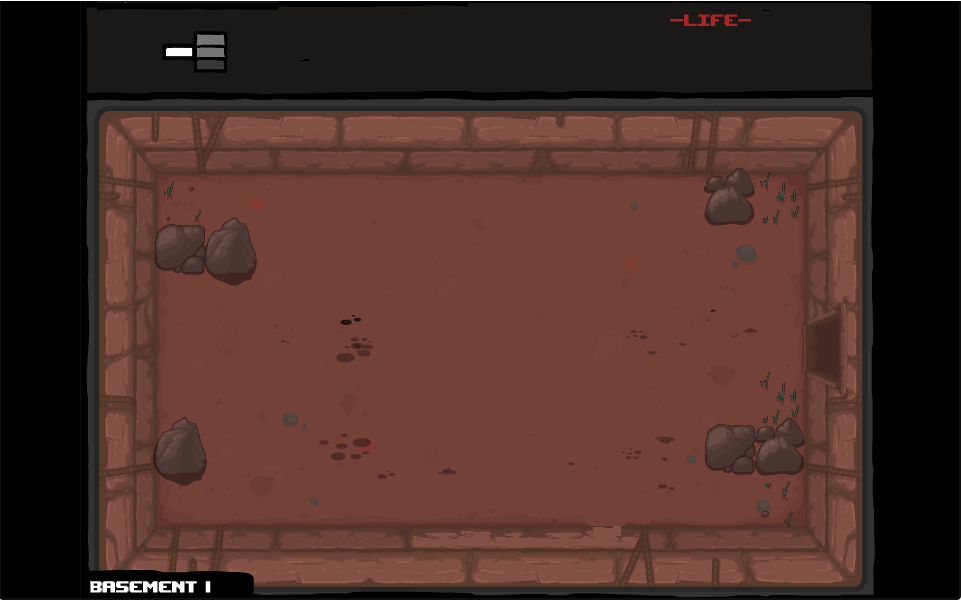
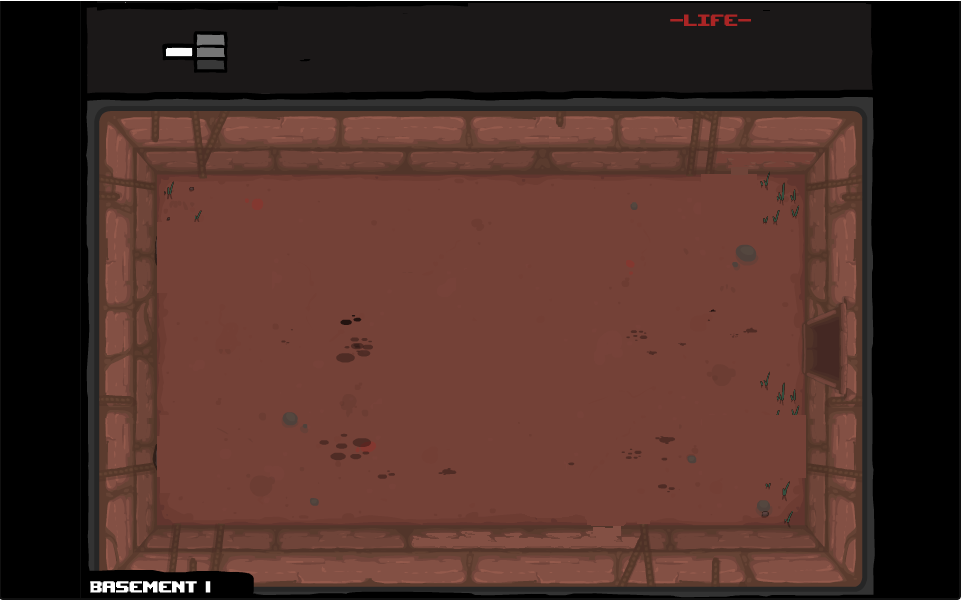
장애물과 충돌체크중

diff --git a/Isaac/isaac.py b/Isaac/isaac.py
@@ -7,6 +7,7 @@ import gameover
 import server
 from red_tear import RedTear
 from life import Life
+from block1 import Block
 
 NULL, RD, LD, RU, LU, WD, SD, WU, SU, SPACE = range(10)
 event_name = ['Null', 'RD', 'LD', 'RU', 'LU', 'SPACE', 'WD', 'SD', 'WU', 'SU']
@@ -187,13 +188,13 @@ class Isaac:
     def attack(self):
         if self.change == 1:
             if self.dir_x == 0 and self.dir_y == 0:
-                tear = Tear(self.x, self.y, self.face_dirx*0.8, self.face_diry*0.8)
+                tear = Tear(self.x, self.y, self.face_dirx, self.face_diry)
             elif self.dir_y == 0:
-                tear = Tear(self.x, self.y, self.dir_x*0.8, 0)
+                tear = Tear(self.x, self.y, self.dir_x, 0)
             elif self.dir_x == 0:
-                tear = Tear(self.x, self.y, 0, self.dir_y*0.8)
+                tear = Tear(self.x, self.y, 0, self.dir_y)
             else:
-                tear = Tear(self.x, self.y, self.dir_x*0.8, 0)
+                tear = Tear(self.x, self.y, self.dir_x, 0)
 
             game_world.add_object(tear, 1)
             game_world.add_collision_group(tear, server.monster2, 'tear:monster2')
@@ -243,3 +244,7 @@ class Isaac:
             self.change = 2
             self.image = load_image('Image/red_animation.png')
             self.isaac_image = load_image('Image/red_isaac.png')
+        if group == 'isaac:block1':
+            print(1)
+
+            self.add_event(NULL)

diff --git a/Isaac/Stage/stage1_state.py b/Isaac/Stage/stage1_state.py
@@ -7,6 +7,7 @@ import game_world
 from monster2 import Monster_2
 from life import Life
 from isaac import Isaac
+from block1 import Block
 
 import server
 
@@ -35,13 +36,20 @@ def enter():
     server.life = Life()
     game_world.add_object(server.life, 1)
     server.monster2 = [Monster_2() for i in range(2)]
+    server.block1 = [Block() for i in range(4)]
     game_world.add_object(server.isaac, 1)
     server.monster2[0].y, server.monster2[0].x = 400, 100
     server.monster2[1].y, server.monster2[1].x = 100, 100
     # server.monster2[2].y, server.monster2[2].x = 400, 100
     # server.monster2[3].y, server.monster2[3].x = 100, 700
+    server.block1[0].y, server.block1[0].x = 350, 100
+    server.block1[1].y, server.block1[1].x = 350, 150
+    server.block1[2].y, server.block1[2].x = 150, 700
+    server.block1[3].y, server.block1[3].x = 150, 650
     game_world.add_objects(server.monster2, 1)
+    game_world.add_objects(server.block1, 1)
     game_world.add_collision_group(server.isaac, server.monster2, 'isaac:monster2')
+    game_world.add_collision_group(server.isaac, server.block1, 'isaac:block1')
 
 
 # 게임 종료 - 객체를 소멸

diff --git a/Isaac/server.py b/Isaac/server.py
@@ -6,4 +6,4 @@ life = None
 tear = None
 red_tear = None
 item = None
-
+block1 = []
